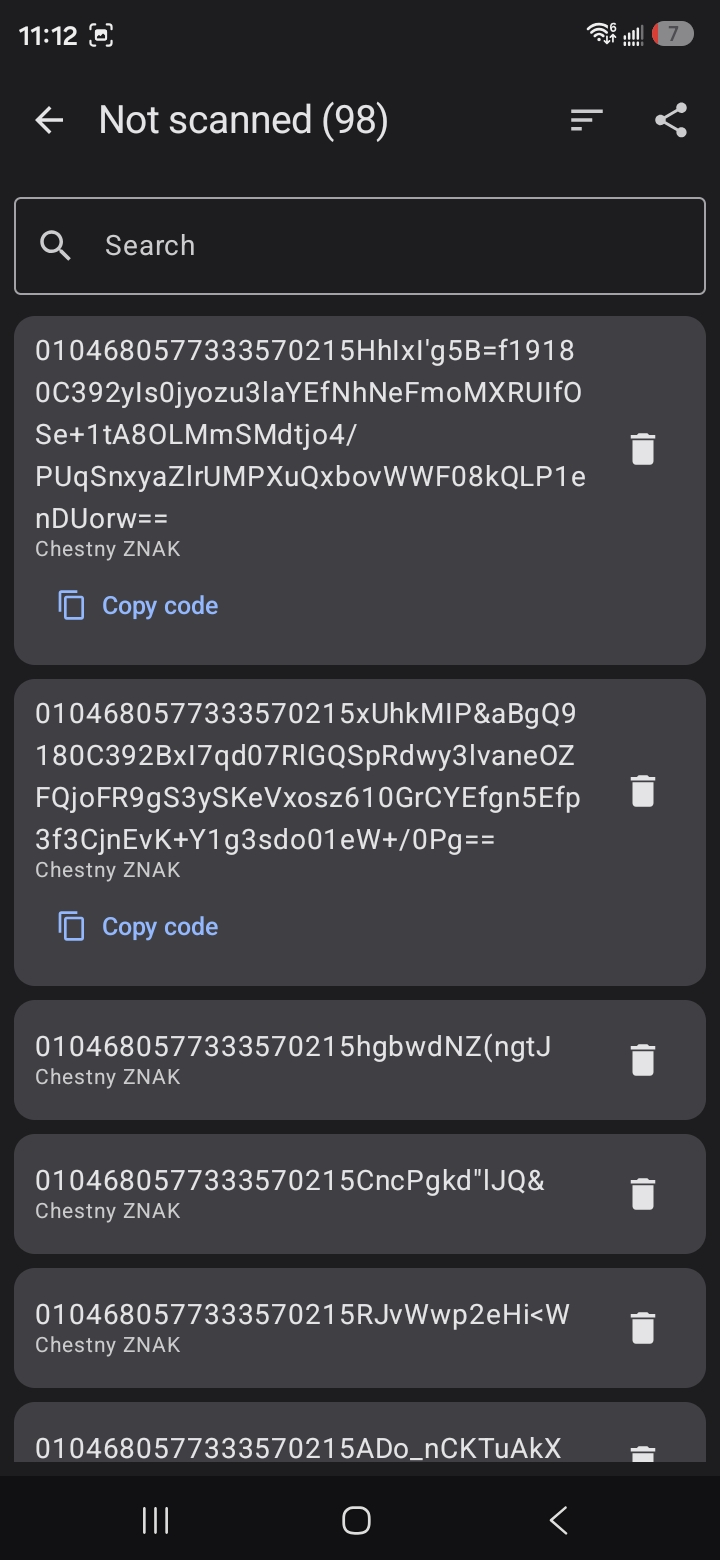
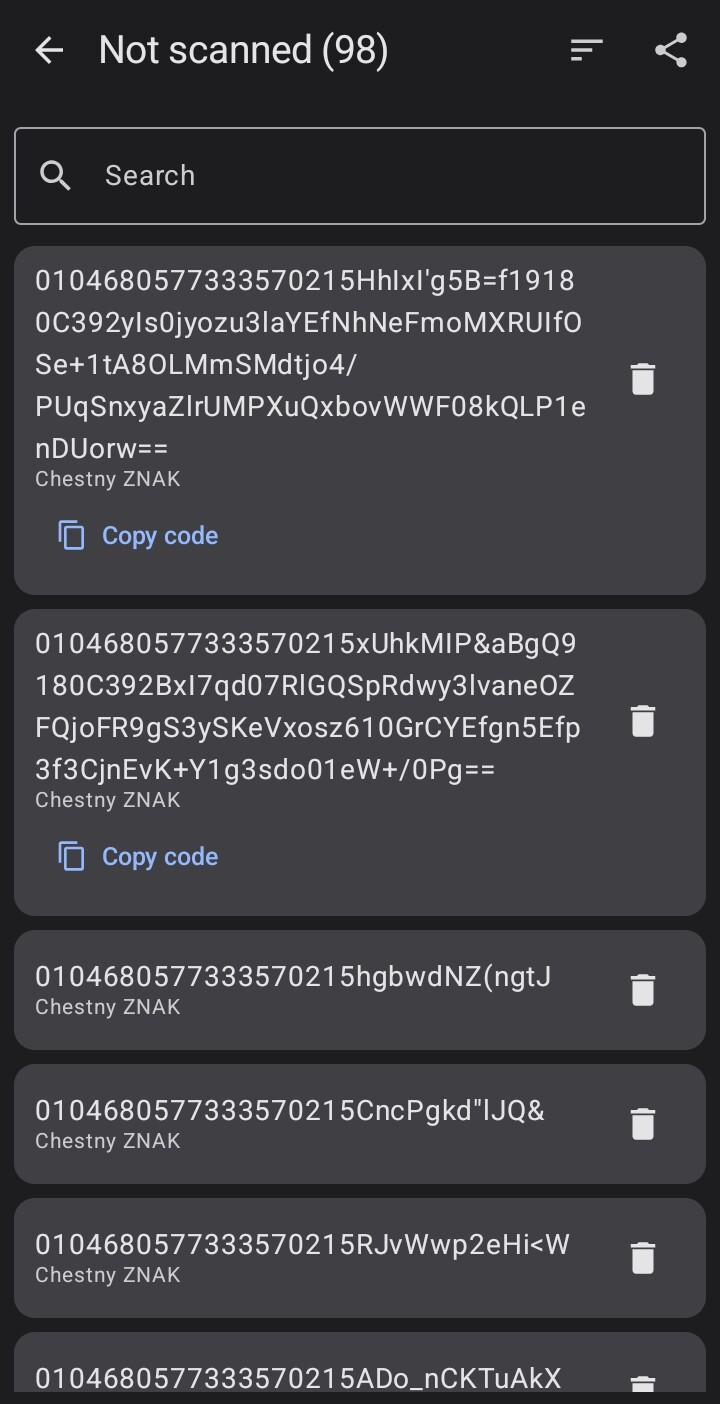
docs: crop screenshots and simplify the README and changelog

diff --git a/CHANGELOG.md b/CHANGELOG.md
@@ -6,51 +6,39 @@ All notable changes to this project are documented here. The format follows
 
 ## [2.0.0] - Unreleased
 
-"Any File, Any Code": sessions are read from any document, and the camera reads every
-common code format.
-
 ### Added
-- Codes are read from PDF, images, text lists and CSV, several files at once, with
-  progress per file and page. Code kinds can be unticked before a session is created.
-- Every barcode format ML Kit supports. Fields are parsed for GS1 (Chestny ZNAK, EU FMD
-  and other traceability systems), GS1 Digital Link, German IFA PPN and HIBC; expiry and
-  batch are shown under each code and in the scan banner.
-- Sessions that collect codes without a document; adding a document later turns them
-  into checking sessions.
-- Answers say how long ago a repeated code was scanned.
-- Viewfinder with a smoothed outline around the accepted code, tap to focus, pinch to
-  zoom, a torch, and an optional scan-on-tap mode.
-- Manual entry that searches the session's codes.
-- Bin for removed codes, kept for a week.
-- Search, sort and swipe actions in code lists; a scrollbar in long lists.
-- Session files: share a session and merge its marks on another phone.
-- Automatic backup of sessions to a folder of the user's choice.
-- Settings for theme, language (switched in the app), clock, vibration, sound and what
-  is shown under codes.
-- Dark theme, landscape layout, English and Russian.
+- Codes from PDF, images, text and CSV files, several at once.
+- All barcode formats ML Kit reads. Unwanted kinds can be unticked when creating a session.
+- Expiry and batch for GS1 codes (Chestny ZNAK, EU medicines and others), GS1 Digital
+  Link, German PPN and HIBC.
+- Sessions without a document that record new codes.
+- "Already scanned" shows how long ago.
+- Viewfinder, tap to focus, pinch to zoom, torch, optional scan on tap.
+- Manual entry with search over the session's codes.
+- Bin for removed codes, emptied after a week.
+- Search, sorting and swipe actions in code lists, scrollbar.
+- Sharing a session as a file and merging marks from it.
+- Automatic backup of sessions to a chosen folder.
+- Settings: theme, language, clock format, vibration, sound, what is shown under codes.
+- Dark theme, landscape layout.
 - Privacy policy page.
 
 ### Changed
-- Sessions are ordered by when they were last opened, and show their progress.
-- Screens use view models with dependency injection (Hilt); scan decisions moved out of
-  the screen into tested classes.
-- The screen may sleep after five minutes without a code in view.
-- Licensed under Apache 2.0.
+- Sessions are sorted by last opened and show progress.
+- Screens moved to ViewModels with Hilt.
+- The screen can turn off after five minutes without codes in view.
+- License changed to Apache 2.0.
 
 ### Fixed
-- With two codes in the viewfinder the answer jumped between them and the phone buzzed
-  several times a second; each code is now answered once while it stays in view.
-- Misreads of linear barcodes from a tilted label: a new linear code needs several equal
-  reads.
-- A code held in front of the camera is answered once instead of repeatedly.
-- The last mark is no longer lost when leaving the scan screen right after a scan, and a
-  failed write takes the shown answer back.
-- Rotation no longer blacks out the camera.
+- With two codes in view the app switched between them and vibrated nonstop.
+- Wrong reads of linear barcodes on tilted labels.
+- The same code was answered again while still in view.
+- The last mark could be lost when leaving the scan screen right after a scan.
+- Black flash on rotation.
 
 ### Removed
-- Internet and network state permissions pulled in by ML Kit telemetry.
-- The session database is excluded from Android cloud backup, which could restore it
-  corrupted; the folder backup replaces it.
+- Internet permissions added by ML Kit.
+- Session database from Android cloud backup.
 
 ## [1.2.1] - 2025-09-02
 

diff --git a/README.md b/README.md
@@ -40,8 +40,8 @@ and a whole session can be sent as a file - the other phone merges the marks int
 session it already has. Sessions are also backed up to a folder of your choice and survive
 uninstalling the app.
 
-A session can also start without a document: it then collects every new code it sees and
-only catches repeats. Adding a document later turns it into a checking session.
+There are also sessions without a document. They record every new code and warn about
+repeats. If a document is added later, the session starts checking against it.
 
 ### Supported codes
 
@@ -58,28 +58,24 @@ only catches repeats. Adding a document later turns it into a checking session.
 
 ## Architecture
 
-A single-activity Compose app with one view model per screen.
+One activity, Jetpack Compose, one ViewModel per screen.
 
 ```
-ui/<feature>/   Screen (stateless rendering) + ViewModel (StateFlow<UiState>, one-off events)
-data/           SessionRepository over Room (DAO, entities), SessionBackup to a user folder
-codes/          What a code is and what it carries: GS1, HIBC, PPN, Digital Link, CSV lists
-files/          Reading PDFs, images and lists; session files; CSV export
-scan/           Scan decisions: verdict, presence of codes in view, linear read vote, smoothing
-settings/       App settings, in-app language switching
-di/             Hilt module: database, DAO, application scope
+ui/<screen>/   screen and its ViewModel
+data/          Room database, SessionRepository, backup to a folder
+codes/         parsing: GS1, HIBC, PPN, Digital Link, CSV lists
+files/         reading PDF and images, session files, CSV export
+scan/          what to answer when a code is scanned
+settings/      app settings and language
+di/            Hilt module
 ```
 
-- Dependencies are injected with Hilt; view models get the repository and read navigation
-  arguments from `SavedStateHandle`.
-- The parsing and scan decision code is plain Kotlin with no Android types, so it is
-  covered by fast JVM tests. The Room layer and the scan view model are tested against an
-  in-memory database under Robolectric.
-- Camera frames are decoded by ML Kit on a background executor; the screen receives every
-  code in the frame and `CodePresence` decides whether to answer, so a code held in view is
-  answered once, even with several codes in the viewfinder.
-- Marks are written on an application-wide scope: leaving the screen right after a scan
-  does not lose the write, and a failed write takes the shown answer back.
+Each ViewModel keeps the screen state in a `StateFlow`; the screen only draws it.
+Dependencies come through Hilt.
+
+Code parsing and scan logic don't touch Android classes and are tested with plain JUnit.
+The database and the scan ViewModel are tested with Robolectric on an in-memory Room
+database. CI builds the app, runs the tests and lint on every push.
 
 ## Technologies used
 [![Kotlin](https://img.shields.io/badge/Kotlin-7F52FF?style=for-the-badge&logo=kotlin&logoColor=white)](https://kotlinlang.org/) 
